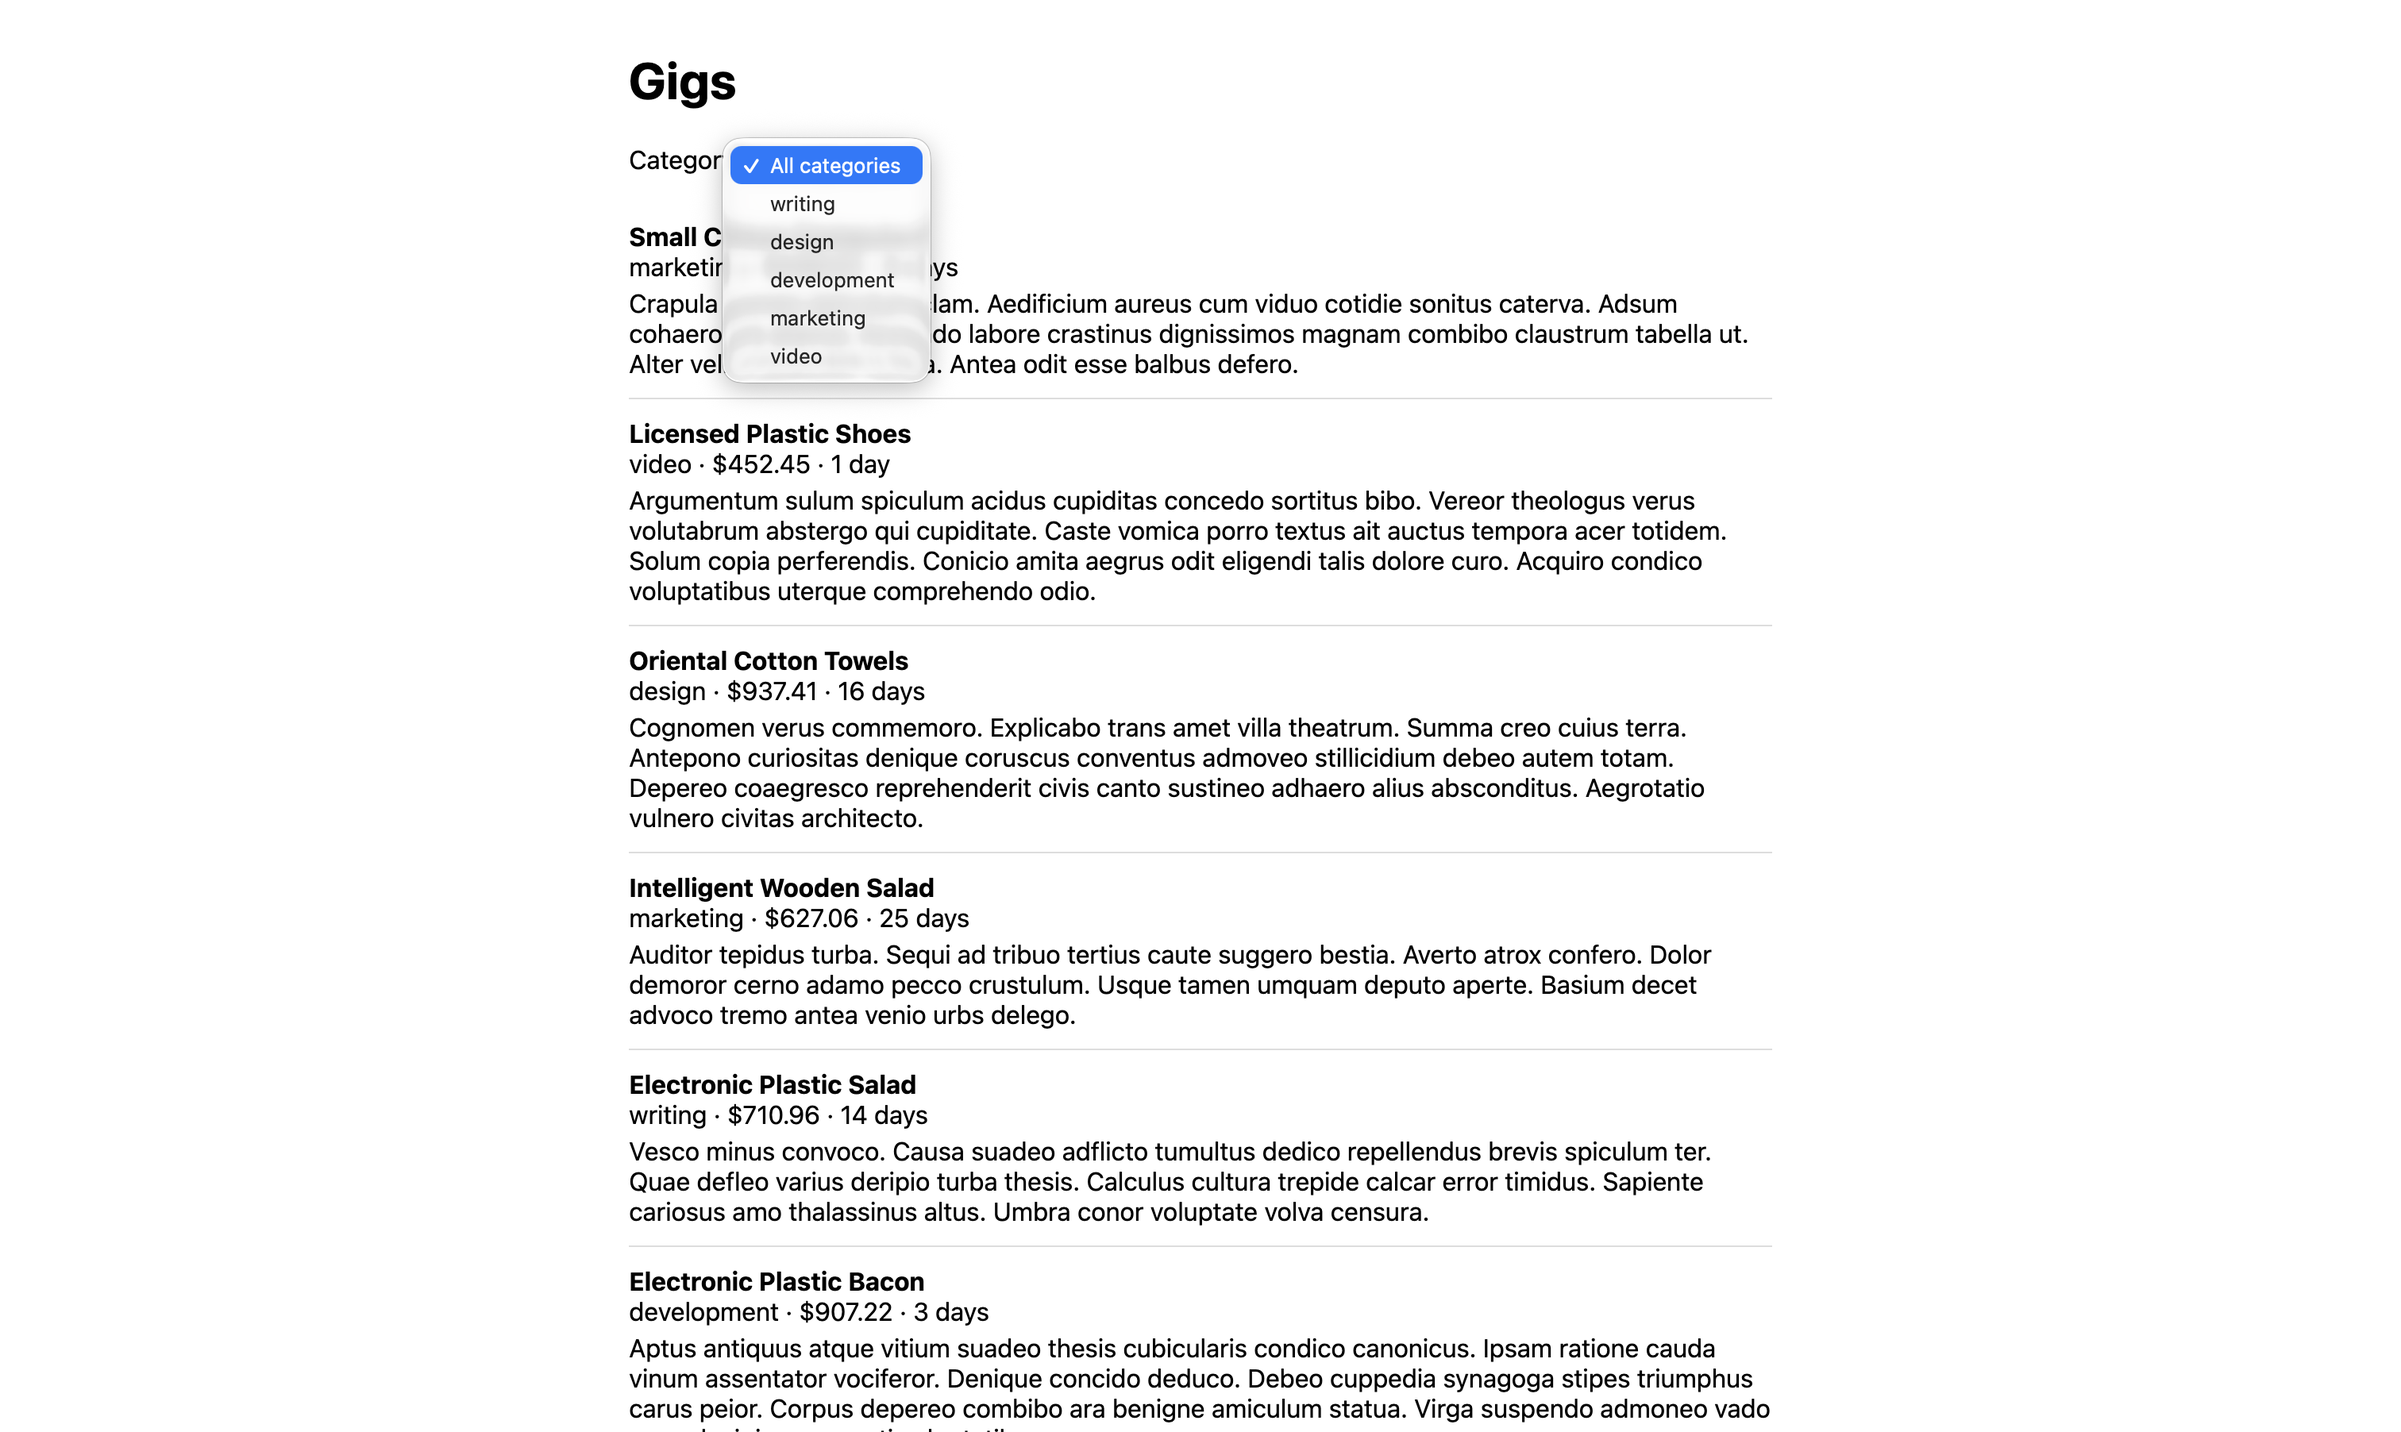
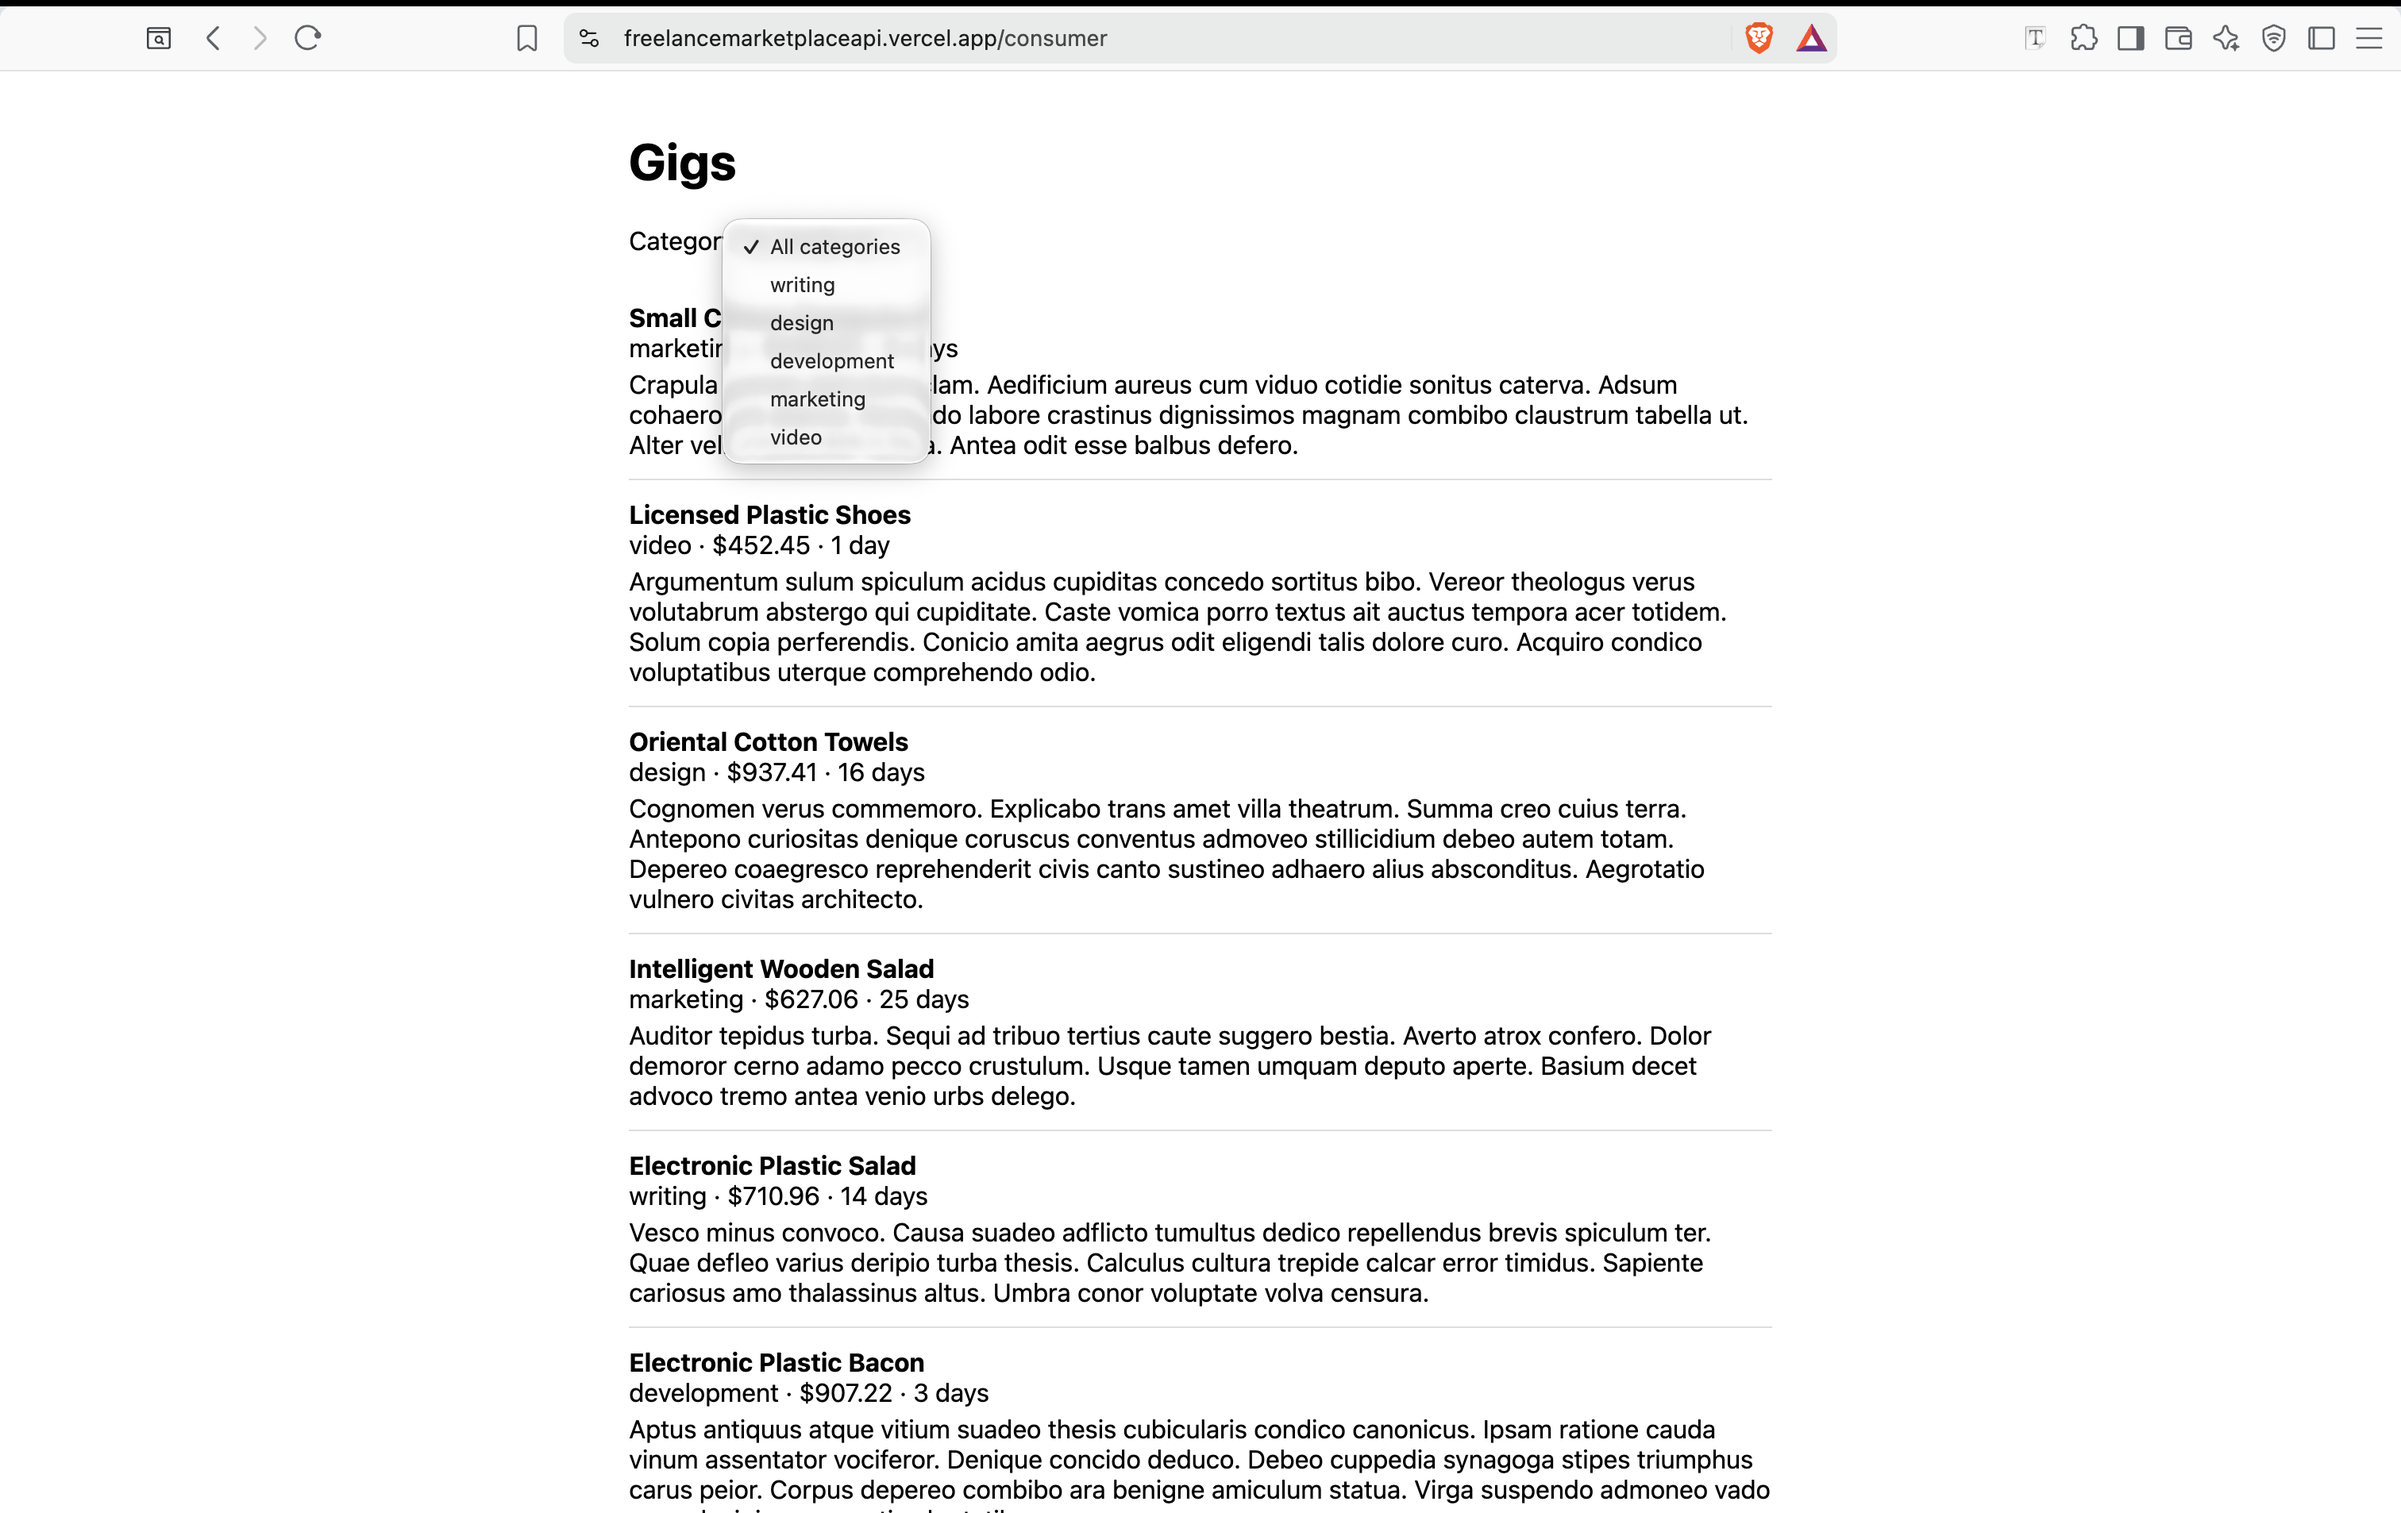
docs: use consumer screenshot showing the live URL in the address bar

Changed region(s): [[0.0, 0.0, 1.0, 0.9933]]

diff --git a/README.md b/README.md
@@ -631,9 +631,9 @@ The limit only shows up for a caller whose outbound IP stays fixed. From a netwo
 
 ### The consumer page
 
-The `/consumer` page at https://freelancemarketplaceapi.vercel.app/consumer lists gigs from the live API, with the category dropdown open:
+The `/consumer` page at https://freelancemarketplaceapi.vercel.app/consumer lists gigs from the live API, with the category dropdown open. The address bar shows the deployed URL:
 
-![The consumer page listing gigs from the live API with the category dropdown open](docs/consumer.png)
+![The consumer page on the live URL listing gigs, with the category dropdown open](docs/consumer.png)
 
 ### The seed script
 
